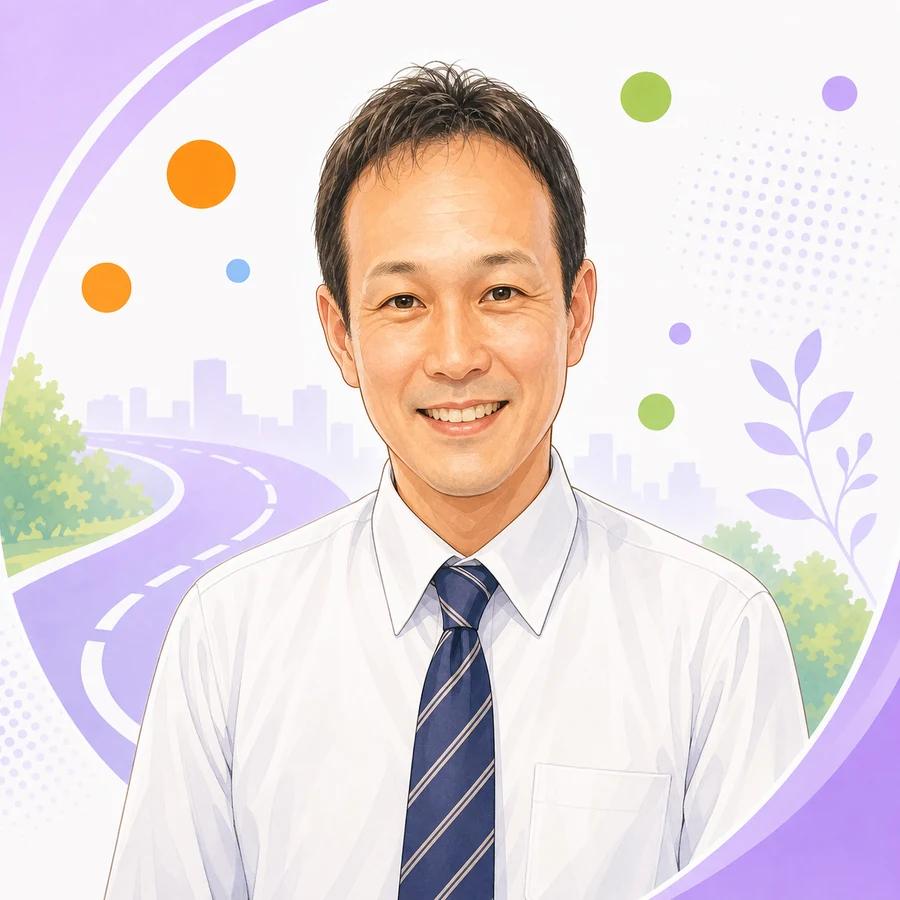
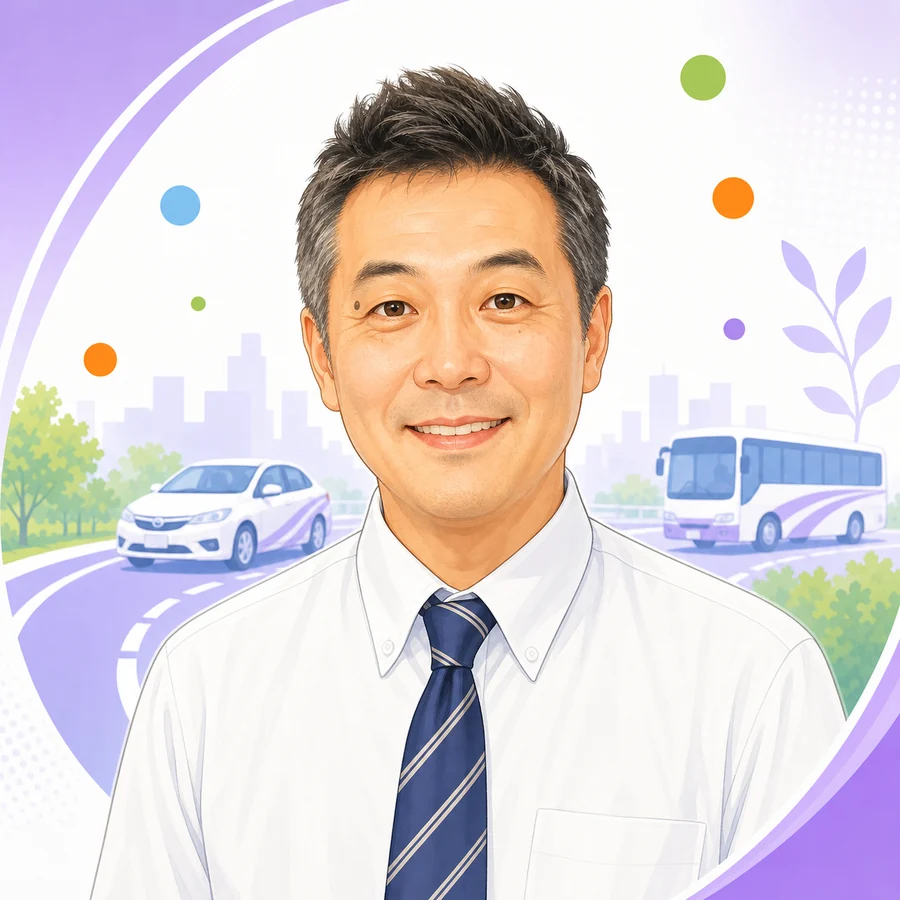
fix: ヒーロー文言と指導員画像を更新
トップのキャッチコピーをDrive open new world. 新しい車界へに統一し、ヒーロー画像を差し替えました。

内野先生・瀬戸先生の似顔絵を再生成し、春田先生の指導員画像を追加しました。

diff --git a/index.html b/index.html
@@ -3,9 +3,9 @@
 <head>
 <meta charset="utf-8" />
 <meta name="viewport" content="width=device-width, initial-scale=1" />
-<title>筑紫野自動車学校｜ここから、運転が好きになる。</title>
+<title>筑紫野自動車学校｜Drive open new world. 新しい車界へ</title>
 <meta name="description" content="筑紫野自動車学校。福岡県公安委員会指定・技能試験免除。入校案内、料金シミュレーション、スクールバス、在校生向け情報をスマホから見やすく確認できます。" />
-<meta property="og:title" content="筑紫野自動車学校｜ここから、運転が好きになる。" />
+<meta property="og:title" content="筑紫野自動車学校｜Drive open new world. 新しい車界へ" />
 <meta property="og:description" content="筑紫野自動車学校の入校案内、料金、無料送迎、仮申込・資料請求をスマホから見やすく確認できます。" />
 <meta property="og:type" content="website" />
 <meta property="og:url" content="https://chikushino-driving-school.pages.dev/" />
@@ -49,8 +49,8 @@
   "image": "https://chikushi-ds.com/images/ogp/chikushino-ogp.webp"
 }
 </script>
-<link rel="preload" as="image" href="images/generated-hero/chikushino-hero-grounded-2026-07-03.webp" media="(min-width: 769px)" fetchpriority="high">
-<link rel="preload" as="image" href="images/generated-hero/chikushino-hero-grounded-mobile-2026-07-03.webp" media="(max-width: 768px)" fetchpriority="high">
+<link rel="preload" as="image" href="images/generated-hero/chikushino-hero-drive-open-2026-07-10.webp" media="(min-width: 769px)" fetchpriority="high">
+<link rel="preload" as="image" href="images/generated-hero/chikushino-hero-drive-open-mobile-2026-07-10.webp" media="(max-width: 768px)" fetchpriority="high">
 <link rel="preconnect" href="https://fonts.googleapis.com">
 <link rel="preconnect" href="https://fonts.gstatic.com" crossorigin>
 <link href="https://fonts.googleapis.com/css2?family=Jost:wght@400;500;700;900&family=Noto+Sans+JP:wght@400;500;700;900&display=swap" rel="stylesheet">
@@ -621,7 +621,7 @@
     min-height: 430px;
     overflow: hidden;
     border-bottom: 1px solid var(--line-soft);
-    background: #fff url("images/generated-hero/chikushino-hero-grounded-2026-07-03.webp") center / cover no-repeat;
+    background: #fff url("images/generated-hero/chikushino-hero-drive-open-2026-07-10.webp") center / cover no-repeat;
   }
   @media (min-width: 1180px) {
     .hero {
@@ -2826,7 +2826,7 @@
     .hero {
       height: min(211.24vw, 840px);
       min-height: 0;
-      background: #fbf8ff url("images/generated-hero/chikushino-hero-grounded-mobile-2026-07-03.webp") center top / cover no-repeat;
+      background: #fbf8ff url("images/generated-hero/chikushino-hero-drive-open-mobile-2026-07-10.webp") center top / cover no-repeat;
     }
     .hero::before {
       display: block;
@@ -3359,10 +3359,10 @@
 
 		  <main>
 		    <section class="hero" aria-label="メインビジュアル">
-          <h1 class="visually-hidden">ここから、運転が好きになる。</h1>
+          <h1 class="visually-hidden">Drive open new world. 新しい車界へ</h1>
 		      <picture class="hero-picture">
-	        <source media="(max-width: 768px)" srcset="images/generated-hero/chikushino-hero-grounded-mobile-2026-07-03.webp">
-	        <img class="hero-main-img" src="images/generated-hero/chikushino-hero-grounded-2026-07-03.webp" alt="初心者マークを持つ教習生と筑紫野自動車学校のヒーロー画像" fetchpriority="high" decoding="async">
+	        <source media="(max-width: 768px)" srcset="images/generated-hero/chikushino-hero-drive-open-mobile-2026-07-10.webp">
+	        <img class="hero-main-img" src="images/generated-hero/chikushino-hero-drive-open-2026-07-10.webp" alt="Drive open new world. 新しい車界へ" fetchpriority="high" decoding="async">
 	      </picture>
     </section>
 
@@ -3754,6 +3754,7 @@
           <a class="instructor-card" href="detail.html?page=instructors"><img loading="lazy" decoding="async" src="images/instructors-anime/yamamoto-shosuke.webp" alt="指導員"><span class="instructor-nameplate"><small>山本 勝</small><em>動物園巡り</em></span></a>
           <a class="instructor-card" href="detail.html?page=instructors"><img loading="lazy" decoding="async" src="images/instructors-anime/nakamura-masanobu.webp" alt="指導員"><span class="instructor-nameplate"><small>散歩ッポ</small><em>スポーツ観戦</em></span></a>
           <a class="instructor-card" href="detail.html?page=instructors"><img loading="lazy" decoding="async" src="images/instructors-anime/shigeto-noriki.webp" alt="指導員"><span class="instructor-nameplate"><small>しげちゃん</small><em>安全運転サポート</em></span></a>
+          <a class="instructor-card" href="detail.html?page=instructors"><img loading="lazy" decoding="async" src="images/instructors-anime/haruda-yoshitaka.webp" alt="指導員"><span class="instructor-nameplate"><small>ジャイアン</small><em>スポーツ観戦・オートバイ・RC CAR</em></span></a>
           <a class="instructor-card" href="detail.html?page=instructors"><img loading="lazy" decoding="async" src="images/instructors-anime/uchino-shuhei.webp" alt="指導員"><span class="instructor-nameplate"><small>うちの先生</small><em>ゲーセン</em></span></a>
           <a class="instructor-card" href="detail.html?page=instructors"><img loading="lazy" decoding="async" src="images/instructors-anime/seto-konosuke.webp" alt="指導員"><span class="instructor-nameplate"><small>せとさん</small><em>散歩</em></span></a>
           <a class="instructor-card" href="detail.html?page=instructors"><img loading="lazy" decoding="async" src="images/instructors-anime/shimoda-shinichi.webp" alt="指導員"><span class="instructor-nameplate"><small>しっしい</small><em>占い</em></span></a>

diff --git a/detail.html b/detail.html
@@ -3280,6 +3280,7 @@
               ["yamamoto-shosuke", "山本 勝介", "山本 勝", "動物園巡り"],
               ["nakamura-masanobu", "中村 正信", "散歩ッポ", "スポーツ観戦"],
               ["shigeto-noriki", "重藤 憲紀", "しげちゃん", "安全運転サポート"],
+              ["haruda-yoshitaka", "春田 能孝", "ジャイアン", "スポーツ観戦・オートバイ・RC CAR"],
               ["uchino-shuhei", "内野 修平", "うちの先生", "ゲーセン"],
               ["seto-konosuke", "瀬戸 幸之助", "せとさん", "散歩"],
               ["shimoda-shinichi", "下田 真一", "しっしい", "占い"],